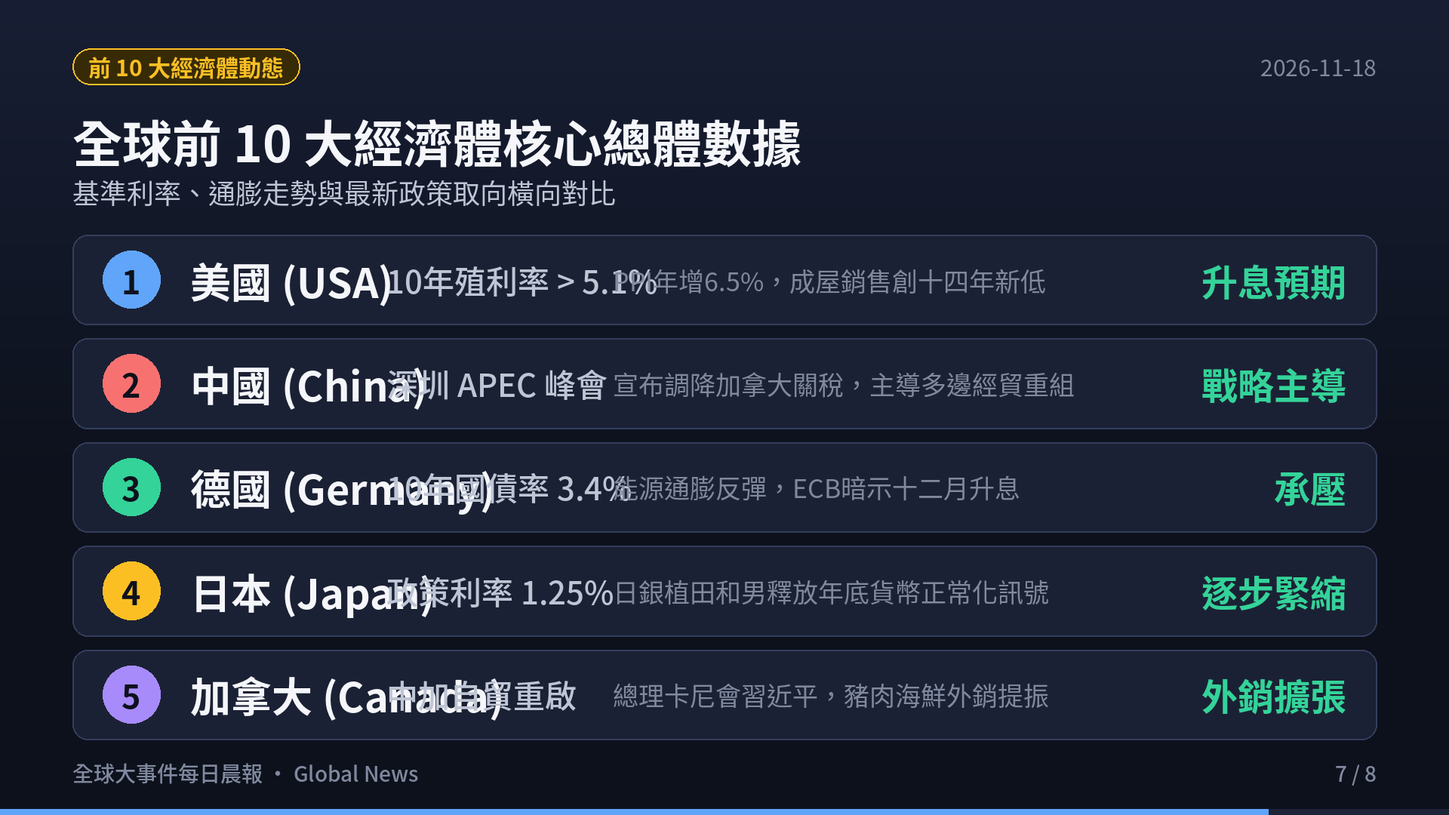
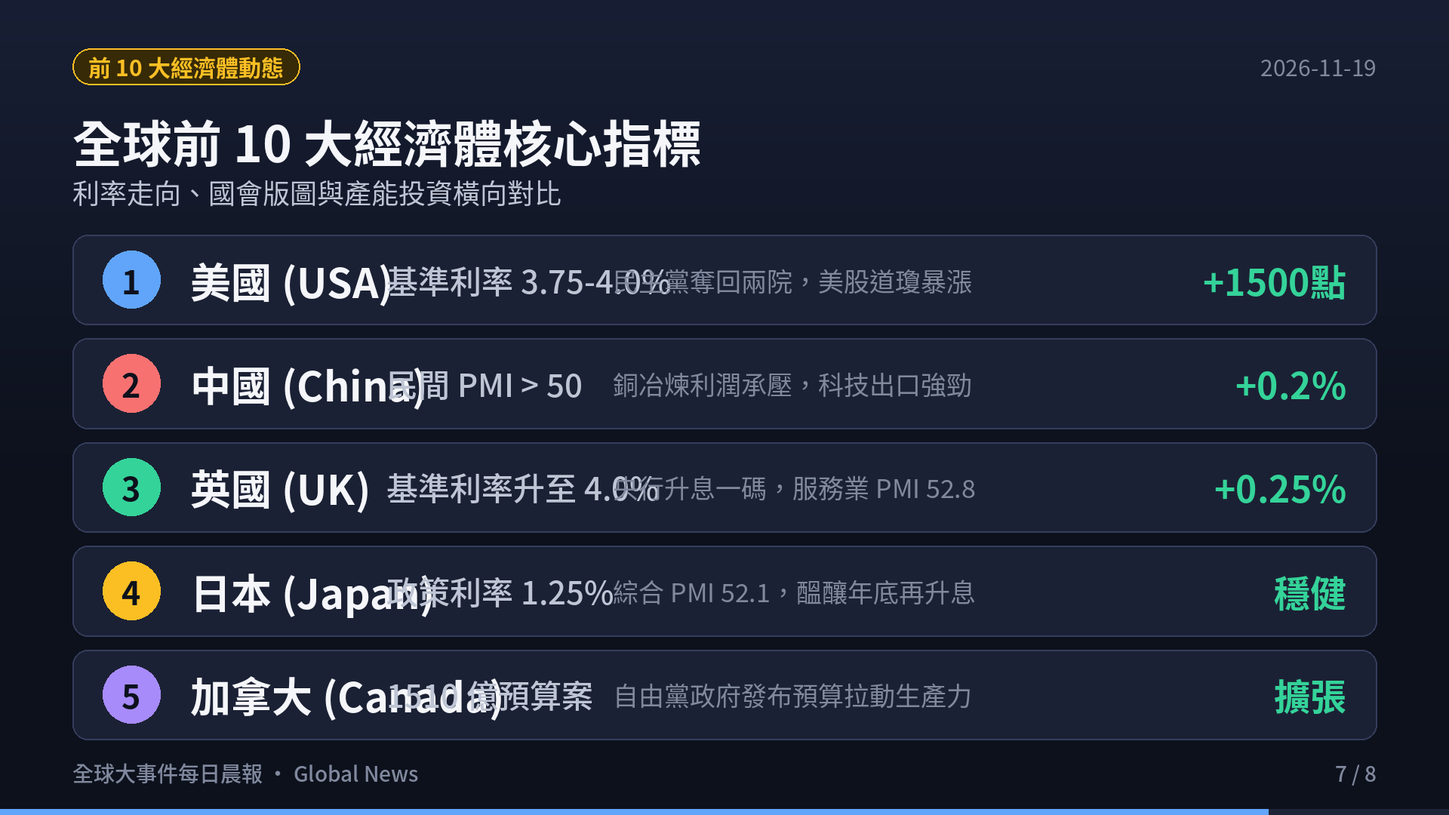
feat(blog): add global news daily report 2026-11-19 with slides and video

diff --git a/content/global-news/index.md b/content/global-news/index.md
@@ -1,26 +1,26 @@
 ---
-title: "全球大事件每日晨報 · 2026-11-18：美軍襲格什姆島・深圳APEC中加破冰・黃仁勳願掌輝達・歐通膨反彈4%"
+title: "全球大事件每日晨報 · 2026-11-19：美期中選藍潮翻盤兩院・英央行升息至4%・俄伊導彈密件曝光・加國千億預算"
 url: "/global-news/"
-date: 2026-11-18T05:30:00+08:00
+date: 2026-11-19T05:30:00+08:00
 draft: false
 image: cover.png
 cover: "https://ckw19810413.github.io/global-news/cover.png"
-description: "2026-11-18 全球重大事件深度解析：美軍精確打擊伊朗格什姆島飛彈陣地、荷姆茲海峽重燃地緣警戒；第三十三屆深圳 APEC 峰會盛大開幕，習近平會見加拿大總理卡尼宣布調降關稅，普丁抵粵國事訪問；黃仁勳表態願重掌輝達，美國十月 PPI 年增 6.5% 創兩年新高；歐盟秋季經濟預測通膨達 4%，全歐兩百大企業網站遭惡意腳本供應鏈攻擊；五角大廈劃紅線質疑烏軍縱深打擊，俄安 12 軍運機西伯利亞墜毀；以及全球前十大經濟體核心總體數據橫向評比。"
-tags: ["全球大事件", "國際局勢", "荷姆茲海峽", "格什姆島", "深圳APEC", "黃仁勳", "輝達", "歐洲央行", "歐元區通膨", "美債殖利率", "總體經濟"]
+description: "2026-11-19 全球重大事件深度解析：美洲民主黨贏得期中大選奪回兩院、道瓊暴漲千點、英國央行升息至 4%、歐洲連環航班炸彈威脅排查、俄伊 90 具先進飛彈軍援密件曝光、加拿大公布 1510 億預算案、巴拉圭總統因銀行風暴請辭、亞洲製造業微幅回溫，以及全球前十大經濟體核心總體數據橫向評比。"
+tags: ["全球大事件", "國際局勢", "期中選舉", "美股", "英國升息", "歐洲航班", "俄伊密件", "荷姆茲海峽", "加拿大預算", "日銀升息", "總體經濟"]
 categories: ["國際局勢", "總體經濟"]
 aliases:
-  - "/blog/2026-11-18-global-news/"
-  - "/global-news/2026-11-18/"
+  - "/blog/2026-11-19-global-news/"
+  - "/global-news/2026-11-19/"
 ---
 
-> **觀測週期**：2026-11-18 晨間即時彙整  
+> **觀測週期**：2026-11-19 晨間即時彙整  
 > **情報涵蓋**：全球各大洲（北美、歐洲、中東、亞洲/印太、拉美、大洋洲）與全球前 10 大經濟體  
-> **核心來源**：路透社（Reuters）、美聯社（AP）、海峽時報（The Straits Times）、歐洲央行（ECB）公報、各國外交部與國防部公告  
+> **核心來源**：各國政府公報、路透社（Reuters）、美聯社（AP）、英國衛報（The Guardian）、各國央行公報與 S&P Global PMI 報告  
 > **定位宗旨**：以客觀數據、官方決策與供應鏈結構為準繩，剔除短期情緒噪音，提煉出真正驅動全球資金流向與地緣版圖重構的核心脈絡。
 
 <div style="margin: 2rem 0; border-radius: 12px; overflow: hidden; box-shadow: 0 4px 20px rgba(0,0,0,0.12); border: 1px solid rgba(128,128,128,0.2);">
   <div style="position: relative; padding-bottom: 56.25%; height: 0; overflow: hidden; background: #0f121c;">
-    <iframe src="https://www.youtube.com/embed/Z5a9Wzwby78" title="2026-11-18 全球大事件每日晨報" style="position: absolute; top:0; left: 0; width: 100%; height: 100%; border: 0;" allow="accelerometer; autoplay; clipboard-write; encrypted-media; gyroscope; picture-in-picture; web-share" allowfullscreen></iframe>
+    <iframe src="https://www.youtube.com/embed/xsPAK8KhIvU" title="2026-11-19 全球大事件每日晨報" style="position: absolute; top:0; left: 0; width: 100%; height: 100%; border: 0;" allow="accelerometer; autoplay; clipboard-write; encrypted-media; gyroscope; picture-in-picture; web-share" allowfullscreen></iframe>
   </div>
   <div style="background: rgba(0,0,0,0.03); padding: 10px 16px; font-size: 0.9rem; color: var(--card-text-color-secondary, #666); text-align: center; border-top: 1px solid rgba(128,128,128,0.15);">
     🎬 <strong>120 秒晨間快報影音動態版</strong>（含 AI 自然神經語音朗讀與背景配樂）
@@ -31,81 +31,81 @@ aliases:
 
 ## 🎯 今日全球前 6 大核心事件深度拆解
 
-![焦點 1：黃仁勳表態願重掌輝達，美國十月PPI創兩年最大增幅](s02.png)
+![焦點 1：美國期中大選藍潮翻盤，民主黨奪回兩院控制權](s02.png)
 
-### 1. 美洲焦點與科技震撼：黃仁勳發文表態願重掌輝達，美國十月 PPI 年增 6.5% 房市降溫
-- **輝達領袖異動後續震撼**：
-  - 輝達（Nvidia）前執行長黃仁勳在社群平台 X 上公開坦承「在私人生活上犯下嚴重錯誤」，並首度正面表態：若董事會評估符合股東與員工最佳利益，他「將深感榮幸重返執行長職位」。
-  - 美國證券交易委員會（SEC）監管申報文件顯示，在卸任前約八個月，黃仁勳夫婦已將近 5,900 萬股輝達股票轉移入家族不可撤銷信託；同時分析顯示川普相關投資帳戶曾頻繁交易輝達股票。
-- **美國批發通膨反彈與房市低迷**：
-  - 美國勞工統計局最新公布 10 月生產者物價指數（PPI）月增 0.3%，年增率高達 6.5%，創下 2022 年 11 月以來最快年度增速；核心 PPI 年增亦達 4.9%。
-  - 全美不動產經紀人協會（NAR）報告 10 月成屋銷售年化降至 375 萬戶，創 2010 年 8 月以來 14 年最低水平，聯準會多位官員相繼釋放支持進一步升息的鷹派訊號。
-
----
-
-![焦點 2：美軍空襲格什姆島飛彈陣地，荷姆茲海峽重燃地緣警戒](s03.png)
-
-### 2. 中東防務與能源動脈：美軍空襲格什姆島飛彈陣地，荷姆茲海峽重燃航運戰略警戒
-- **美伊波斯灣直接軍事交火升溫**：
-  - 美軍於 11 月 17 日對位於荷姆茲海峽戰略要衝的伊朗格什姆島（Qeshm Island）實施精確空襲，摧毀伊斯蘭革命衛隊（IRGC）的飛彈與無人機發射設施。
-  - 本次打擊係直接回應數小時前革命衛隊對巴林美軍雷達站發動的無人機襲擊。儘管阿曼與卡達持續斡旋，美伊雙方仍爆發實質交火。
-- **波斯灣原油航道風險溢價攀升**：
-  - 荷姆茲海峽承擔全球約五分之一原油與液化天然氣海運吞吐量，航行安全警訊再度升至最高級別。
-  - 國際航運巨頭馬士基（Maersk）與地中海航運（MSC）維持防禦性航行應變規範，海上戰爭險費率居高不下，為國際原油價格提供強烈底部支撐。
+### 1. 美洲政局與資本市場：美國期中選舉藍潮掀天翻地覆，民主黨重奪兩院掌控權，道瓊狂飆千點
+- **兩院版圖大翻盤與行政掣肘**：
+  - 美國期中大選計票塵埃落定，民主黨成功掀起「藍色浪潮」，一舉擊敗共和黨，同時奪回參議院與眾議院的絕對多數席次。
+  - 川普總統面臨任期後兩年的重大國會掣肘，白宮發言人隨後表態願與新國會多數展開跨黨派合作。此結果大幅降低了單邊全面徵收高額行政關稅的極端立法風險。
+- **資本市場暴力狂歡與避險消退**：
+  - 華爾街股市迎來狂歡式反彈，道瓊工業指數單日暴漲逾 1,500 點；與此同時，地緣避險溢價迅速回吐，國際原油期貨價格重挫回落。
+  - 聯準會利率目標區間維持在 3.75%–4.00%，市場預期分裂國會將遏制過度擴張性的財政赤字刺激，減輕後續通膨二次抬頭的風險。
 
 ---
 
-![焦點 3：第三十三屆深圳APEC峰會登場，中加破冰、普丁抵達](s04.png)
+![焦點 2：英國央行升息至 4%，歐洲航班驚傳連環炸彈威脅](s03.png)
 
-### 3. 亞太外交與多邊經貿：第三十三屆深圳 APEC 峰會盛大揭幕，中加自貿重啟、普丁抵深
-- **中加雙邊關係破冰與關稅下調**：
-  - 國家主席習近平在深圳會見出席 APEC 會議的加拿大總理馬克·卡尼（Mark Carney）。中方宣布調降加拿大對華出口的豬肉與海鮮等農產品關稅。
-  - 卡尼總理盛讚雙邊關係朝「更高確定性與穩定性」邁進，雙方確立在綠色經濟、新農業與人工智慧領域深化實質合作。
-- **普丁抵達深圳與中美俄歷史性三方會談**：
-  - 俄羅斯總統普丁抵達廣東深圳，除了在 APEC 工商領導人峰會發表演說，19 日更將迎來中美俄三國元首歷史性的三方高峰會談。
-  - 與此同時，美國總統川普抵達菲律賓馬尼拉出席 Quad 與 ASEAN 防務論壇，隨後轉往深圳，亞太地緣外交博弈迎來關鍵時刻。
-
----
-
-![焦點 4：歐洲央行秋季預測通膨達4%，全歐兩百大網站遭腳本劫持](s05.png)
-
-### 4. 歐洲宏觀與科技安保：歐盟秋季經濟預測通膨反彈至 4%，全歐兩百大企業網站遭代碼注入
-- **歐盟通膨抬頭與債券殖利率飆升**：
-  - 歐盟執委會發布秋季經濟預測，歐元區 10 月通膨率回升至 4.0%，能源價格年增近 21%；德國十年期基準國債殖利率飆上 3.4%，法國國債利差擴大。
-  - 歐洲央行總裁拉加德在答辯中暗示，不排除在 12 月議息會議重啟升息 25 個基點以阻斷二次通膨預期。
-- **數位供應鏈遭受重大惡意劫持**：
-  - 網路安全機構偵測到全球近 200 家大型企業網站遭遇大規模供應鏈攻擊，包括英國 BBC、阿聯酋匯豐銀行（HSBC UAE）、法國航空（Air France）與宜家（IKEA）等。
-  - 攻擊者透過注入遭篡改的第三方分析工具腳本，意圖竊取消費者信用卡個資與加密貨幣資產，全歐資安應變中心緊急啟動溯源防禦。
+### 2. 歐洲貨幣與航空安全：英格蘭銀行升息一碼至 4.0%，全歐二十餘航班遭遇虛假炸彈威脅緊急排查
+- **英國央行逆勢緊縮打擊通膨**：
+  - 英國央行（Bank of England）在 11 月議息會議宣布將基準利率上調 25 個基點至 **4.0%**，以壓制最新反彈至 3.5% 的核心消費者物價指數（CPI）。
+  - 標普全球（S&P Global）數據顯示，企業在人工智慧（AI）與雲端科技的資本支出推動英國服務業 PMI 躍升至八個月新高 52.8，但服務業工資黏性仍促使央行維持強硬立場。
+- **歐洲民航遭遇系統性虛假警報衝擊**：
+  - 全歐洲境內超過 21 架次國際商業航班遭遇協同性質的連環炸彈威脅，多座主要國際機場被迫緊急暫停起降並引導客機實施跑道滑行隔離搜查。
+  - 歐盟交通運輸專員已緊急聯手各國情報與航空安全局展開跨國溯源調查。
 
 ---
 
-![焦點 5：五角大廈質疑烏軍縱深打擊，俄軍運機西伯利亞失事](s06.png)
+![焦點 3：俄伊導彈軍援密件曝光，荷姆茲海峽受損船隻引戒備](s04.png)
 
-### 5. 歐亞防務與衝突演變：五角大廈劃紅線質疑烏縱深襲擊，俄安-12 運輸機墜毀十七人罹難
-- **美軍高層對烏克蘭打擊策略劃界**：
-  - 美國國防部國防政策副部長埃爾布里奇·科爾比（Elbridge Colby）公開質疑烏克蘭連續兩日對克里米亞大橋及俄境內深處基礎設施的無人機襲擊。
-  - 美方評估縱深襲擊並未能有效終結戰爭，反而可能堅定俄方作戰意志並分散防禦資源，暴露出美烏在戰略目標上的分歧。
-- **西伯利亞軍事運輸機墜毀事故**：
-  - 俄羅斯一架安-12（An-12）軍用運輸機在西伯利亞西南部克麥羅沃州（Kemerovo）失事墜毀，機上 17 名乘員不幸全數罹難，俄空軍已暫停同型機飛行進行安全排查。
+### 3. 中東防務與航運樞紐：烏情報曝俄向伊朗提供 90 具先進導向飛彈發射器，荷姆茲海峽受損船隻引發航運警戒
+- **俄伊戰略軍事技術合作文件外洩**：
+  - 烏克蘭情報部門獲取並經外媒確認的洩密防務文件顯示，俄羅斯已與伊朗達成協議，向德黑蘭提供 90 具先進 LMUR 直升機發射型精確導引飛彈系統，並持續提供軍用級衛星定位與目標偵察數據。
+  - 此舉被視為俄伊戰略夥伴關係的實質升級，引發美國五角大廈與中東盟邦對波斯灣軍事平衡的高度戒備。
+- **波斯灣與荷姆茲海峽航行警戒持續**：
+  - 伊朗伊斯蘭革命衛隊（IRGC）報告波斯灣荷姆茲海峽水域發生零星船隻受損事件，國際航運龍頭馬士基（Maersk）等持續啟動緊急應變規避指引，區域海上保險費率維持高檔。
 
 ---
 
-![焦點 6：全球前十大經濟體核心總體數據](s07.png)
+![焦點 4：加拿大公布千億預算案，巴拉圭總統因銀行風暴請辭](s05.png)
+
+### 4. 美洲與拉美震盪：加拿大推出 1510 億產能擴張預算，巴拉圭爆發銀行擠兌危機總統培尼亞請辭
+- **加拿大 2026 年度聯邦預算拍板**：
+  - 加拿大財政部長商鵬飛（François-Philippe Champagne）在總理馬克·卡尼（Mark Carney）內閣下發表高達 1,510 億加幣的第二任期聯邦預算案。
+  - 預算核心著重於大規模拉動私人資本投資、改善國家生產力瓶頸，並緩解家庭生活成本壓力，同時為美加可能出現的新一輪貿易摩擦築起防禦緩衝。
+- **南美爆發金融擠兌引發政局崩盤**：
+  - 南美洲巴拉圭大型商業銀行突發性流動性崩潰，引發全境數百萬民眾恐慌性排隊擠兌與街頭混亂。
+  - 在眾議院即將通過彈劾案前夕，巴拉圭總統聖地牙哥·培尼亞（Santiago Peña）正式宣布辭職，南美新興市場主權風險溢價隨之上升。
+
+---
+
+![焦點 5：亞洲製造業景氣微幅回溫，日銀維持 1.25% 利率](s06.png)
+
+### 5. 亞洲工廠動能與印太安保：亞洲製造業獲科技需求支撐，日銀按兵不動醞釀升息，北韓試射防空導彈
+- **亞洲供應鏈展現韌性**：
+  - 日本綜合採購經理人指數（Composite PMI）錄得 52.1，寫下連續第 19 個月保持在擴張區間的穩健紀錄，科技與半導體周邊設備需求提供主要支撐。
+  - 中國 RatingDog / S&P 合作發布的民間製造業 PMI 穩守 50 榮枯線之上，儘管銅冶煉廠面臨副產品硫酸價格暴跌帶來的利潤擠壓，高技術產品外銷仍具支撐力。
+- **印太安全情勢與東北亞動態**：
+  - 日本央行在貨幣政策決議中以 8 比 1 投票結果維持基準利率在 1.25% 不變，但總裁植田和男再次暗示若物價符合預期，年底或 2027 年初將進一步實施貨幣政策正常化。
+  - 北韓官方宣布成功完成新型防空飛彈與巡弋飛彈的多模式導向性能測試，美韓軍事同盟啟動動態警戒應對。
+
+---
+
+![焦點 6：全球前十大經濟體核心指標與趨勢](s07.png)
 
 ### 6. 全球前十大經濟體核心指標與趨勢橫向全景
 
-| 排名 | 國家 / 經濟體 | 核心總體經濟數據 / 最新指標 | 2026-11-18 即時動態與政策取向 | 全球產業鏈與市場意涵 |
+| 排名 | 國家 / 經濟體 | 核心總體經濟數據 / 最新指標 | 2026-11-19 即時動態與政策取向 | 全球產業鏈與市場意涵 |
 |:---:|:---|:---|:---|:---|
-| **1** | **美國 (USA)** | 10年期公債殖利率 **> 5.1%** · PPI **6.5%** | 黃仁勳表態願重掌輝達；批發通膨飆升；房市跌至14年低點；川普巡訪印太 | 通膨頑固迫使長端殖利率重估，降息週期全面大幅推遲，科技股波動加劇。 |
-| **2** | **中國 (China)** | 深圳 APEC 主辦國 · 關稅政策主動 | 主席習近平會見加總理卡尼調降關稅；接待普丁訪深；主導亞太自貿 | 展現多邊外交主導力，穩定外部經貿合作夥伴，農業與綠色產業受惠。 |
-| **3** | **德國 (Germany)** | 10年期公債殖利率 **3.4%** · 能源成本高企 | 歐盟通膨反彈至 4.0%；ECB 暗示 12 月升息；工業部門承擔融資成本壓力 | 歐洲工業龍頭持續承受高利率與地緣能源摩擦成本，基建投資推進放緩。 |
-| **4** | **日本 (Japan)** | 政策利率維持 **1.25%** · 綜合 PMI **52.1** | 植田和男總裁暗示若物價達標年底將進一步升息；關注 APEC 區域對話 | 日圓匯率築底整理，套息交易平倉風險仍存，出口型半導體供應鏈穩健。 |
-| **5** | **印度 (India)** | GDP 預測成長 **6.8%** · 內需維持強勁 | 莫迪總理出席印太防務峰會並提議對東協免簽；Quad 關鍵礦產合作深化 | 內需與外資投入雙輪驅動，作為全球供應鏈替代樞紐的戰略地位持續強化。 |
-| **6** | **英國 (UK)** | 基準利率 **4.0%** · 服務業 PMI **52.8** | 央行官員密切評估通膨黏性；BBC 等系統遭遇惡意腳本注入攻擊 | 服務業韌性支撐薪資增長，但按揭貸款成本高檔制約居民消費動能。 |
-| **7** | **法國 (France)** | 歐洲央行存款利率 **2.50%** · 航空交通排查 | 歐盟秋季經濟預測通膨壓力未解；法航系統遭資安攻擊全面盤查 | 財政赤字緊縮壓力與公共部門博弈未歇，地緣防務支出擠壓民生預算。 |
-| **8** | **義大利 (Italy)** | 歐元區統一利率 **2.50%** · 國債利差持穩 | 密切觀測歐洲央行升息動向；歐盟綠色轉型與再生能源專案持續推進 | 對歐洲央行流動性政策極度敏感，主權融資成本維持在限制性區間。 |
-| **9** | **加拿大 (Canada)** | 中加戰略合作深化 · 農漁產品關稅下調 | 總理卡尼與習近平會面落實雙邊合作；生豬與海鮮對華外銷預期大增 | 擴大對亞洲市場出口通道，在美加貿易不確定性下築起有效分散避險網絡。 |
-| **10** | **澳洲 (Australia)** | 基準利率 **4.35%** · 資源大宗商品順差 | 澳洲央行維持高息對抗服務業通膨；大宗金屬與 LNG 出口維持強勁 | 亞太 APEC 自由貿易推進有利大宗商品出口，但高利率壓抑國內房地產投資。 |
+| **1** | **美國 (USA)** | 基準利率 **3.75%–4.00%** · 通膨 **3.7%** | 期中大選藍潮奪回兩院；道瓊暴漲 1500 點；川普承諾與國會合作 | 國會分治阻絕激進單邊關稅風險，美股風險溢價快速重估，長端殖利率壓力略減。 |
+| **2** | **中國 (China)** | 民間 PMI **> 50** · 銅冶煉利潤承壓 | 科技製造業外銷訂單維持動能；副產品價格下跌壓抑冶煉業；財政基建持續落地 | 科技與新能源供應鏈維持韌性，製造業加速向高附加價值端升級。 |
+| **3** | **德國 (Germany)** | 歐洲央行存款利率 **2.50%** · 工業疲軟 | 歐元區航班炸彈威脅衝擊交通；ECB 利率按兵不動；汽車供應鏈轉型陣痛 | 德國作為歐洲工業龍頭持續受制於高能源成本與地緣分割，依賴新基建帶動。 |
+| **4** | **日本 (Japan)** | 政策利率維持 **1.25%** · 綜合 PMI **52.1** | 連續 19 個月維持景氣擴張；日銀釋放年底進一步升息預期；AI 晶片設備出口穩健 | 日圓匯率築底反彈，日銀正常化進程持續牽引全球套息交易（Carry Trade）倉位調整。 |
+| **5** | **印度 (India)** | GDP 預測成長 **6.8%** · 通膨率 **5.0%** | Quad 關鍵礦產與半導體產線深化；新德里選務抗議維安警戒；內需消費強勁 | 作為全球供應鏈多元化核心樞紐，資本流入動能強勁，製造業產能迅速擴增。 |
+| **6** | **英國 (UK)** | 基準利率升至 **4.0%** · 服務業 PMI **52.8** | 英國央行升息一碼應對 3.5% 通膨；企業 AI 支出爆發帶動服務業八個月新高 | 服務業需求展現高韌性，但高利率對地產與按揭貸款家庭造成進一步借貸成本壓力。 |
+| **7** | **法國 (France)** | 歐洲央行存款利率 **2.50%** · 罷工餘波 | 生活成本高漲引發全國黑色星期四抗議；航空炸彈警報波及巴黎等樞紐機場 | 社會福利與財政緊縮政策博弈加劇，公共部門預算整頓面臨政治民意反彈。 |
+| **8** | **義大利 (Italy)** | 歐元區統一利率 **2.50%** · 國債監控 | 歐元區降息預期暫緩；國債利差持穩；歐盟綠色轉型與基礎建設專案推進 | 財政審查嚴格，對歐洲央行貨幣緊縮節奏極度敏感，聚焦高收益基建回報。 |
+| **9** | **加拿大 (Canada)** | 1510 億聯邦預算 · 刺激生產力 | 財長商鵬飛發表卡尼內閣預算案；拉動私人資本投資防範美加貿易變數 | 擴張性預算旨在提升人均生產力，並在美選後對北美自由貿易協定進行動態預防。 |
+| **10** | **澳洲 (Australia)** | 基準利率 **4.35%** · 商品貿易順差 | 澳洲央行維持限制性高息；大宗金屬與天然氣出口穩定；籌備 COP31 氣候峰會 | 能源過渡與關鍵礦產吸引跨國資本，但服務業通膨黏性限制央行短期降息空間。 |
 
 ---
 
@@ -113,15 +113,15 @@ aliases:
 
 ![今日重點總結](s08.png)
 
-1. **荷姆茲海峽重燃戰火與能源二次通膨風險**：
-   - 美軍直接對伊朗格什姆島發動空襲，使波斯灣與荷姆茲海峽的軍事對峙進入新階段。
-   - 只要原油運輸要衝的風險溢價維持高檔，全球能源成本便難以快速回落，直接摧毀各國央行在年底或明年初大幅降息的樂觀幻想。
-2. **長端利率全面重估與資產折現壓力**：
-   - 美國 10 年期國債殖利率飆破 5.1%、德國 10 年期國債達 3.4%，歐美批發與總體通膨雙雙超預期，代表全球流動性收縮「更高、更久」（Higher for Longer）已成為鐵律。
-   - 依靠低成本槓桿或遠期本夢比推升的估值泡泡將面臨更嚴峻的貼現率殺傷。
+1. **大選投票與地緣變數引發的全球資產重定價**：
+   - 美國期中大選結果將直接重塑華府未來兩年的財政與外交政策，尤其在對伊軍事決策與關稅法案上的行政掣肘。
+   - 伴隨 OPEC+ 產量凍結、荷姆茲海峽風險溢價持續，油價維持高檔將成為各國央行延後降息或重啟緊縮的催化劑。
+2. **通膨黏性與社會結構性矛盾爆發**：
+   - 德國 200 多人被捕的青年抗爭與法國製造業收縮，再次揭示高生活成本對歐美民生結構造成的持久性創傷。
+   - 工廠端投入成本以五月以來最快速度反彈，反映全球供應鏈在地緣分割與脫鉤下的「結構性摩擦成本」難以在短期內消除。
 3. **高息持久戰下的資產配置防禦紀律**：
-   - 投資者應持續堅守「實質定價權、高現金流、低負債率」三大核心原則。
-   - 配置重心偏向具備戰略護城河的能源基礎設施、抗通膨優質必需品龍頭，以及具備穩定現金股利的防禦型標的。
+   - 10 年期美債殖利率維持在 4.9% 附近，高無風險利率代表一切依賴低息流動性的商業模式都將加速接受壓力測試。
+   - 投資者應堅守「高確定性現金流、低財務槓桿、具備技術與定價護城河」的三大原則，保持彈性資產配置。
 
 ---
 

diff --git a/content/blog/2026-11-19-global-news/index.md b/content/blog/2026-11-19-global-news/index.md
@@ -1,0 +1,139 @@
+---
+title: "全球大事件每日晨報 · 2026-11-19：美期中選藍潮翻盤兩院・英央行升息至4%・俄伊導彈密件曝光・加國千億預算"
+url: "/global-news/"
+date: 2026-11-19T05:30:00+08:00
+draft: false
+image: cover.png
+cover: "https://ckw19810413.github.io/global-news/cover.png"
+description: "2026-11-19 全球重大事件深度解析：美洲民主黨贏得期中大選奪回兩院、道瓊暴漲千點、英國央行升息至 4%、歐洲連環航班炸彈威脅排查、俄伊 90 具先進飛彈軍援密件曝光、加拿大公布 1510 億預算案、巴拉圭總統因銀行風暴請辭、亞洲製造業微幅回溫，以及全球前十大經濟體核心總體數據橫向評比。"
+tags: ["全球大事件", "國際局勢", "期中選舉", "美股", "英國升息", "歐洲航班", "俄伊密件", "荷姆茲海峽", "加拿大預算", "日銀升息", "總體經濟"]
+categories: ["國際局勢", "總體經濟"]
+aliases:
+  - "/blog/2026-11-19-global-news/"
+  - "/global-news/2026-11-19/"
+---
+
+> **觀測週期**：2026-11-19 晨間即時彙整  
+> **情報涵蓋**：全球各大洲（北美、歐洲、中東、亞洲/印太、拉美、大洋洲）與全球前 10 大經濟體  
+> **核心來源**：各國政府公報、路透社（Reuters）、美聯社（AP）、英國衛報（The Guardian）、各國央行公報與 S&P Global PMI 報告  
+> **定位宗旨**：以客觀數據、官方決策與供應鏈結構為準繩，剔除短期情緒噪音，提煉出真正驅動全球資金流向與地緣版圖重構的核心脈絡。
+
+<div style="margin: 2rem 0; border-radius: 12px; overflow: hidden; box-shadow: 0 4px 20px rgba(0,0,0,0.12); border: 1px solid rgba(128,128,128,0.2);">
+  <div style="position: relative; padding-bottom: 56.25%; height: 0; overflow: hidden; background: #0f121c;">
+    <iframe src="https://www.youtube.com/embed/xsPAK8KhIvU" title="2026-11-19 全球大事件每日晨報" style="position: absolute; top:0; left: 0; width: 100%; height: 100%; border: 0;" allow="accelerometer; autoplay; clipboard-write; encrypted-media; gyroscope; picture-in-picture; web-share" allowfullscreen></iframe>
+  </div>
+  <div style="background: rgba(0,0,0,0.03); padding: 10px 16px; font-size: 0.9rem; color: var(--card-text-color-secondary, #666); text-align: center; border-top: 1px solid rgba(128,128,128,0.15);">
+    🎬 <strong>120 秒晨間快報影音動態版</strong>（含 AI 自然神經語音朗讀與背景配樂）
+  </div>
+</div>
+
+---
+
+## 🎯 今日全球前 6 大核心事件深度拆解
+
+![焦點 1：美國期中大選藍潮翻盤，民主黨奪回兩院控制權](s02.png)
+
+### 1. 美洲政局與資本市場：美國期中選舉藍潮掀天翻地覆，民主黨重奪兩院掌控權，道瓊狂飆千點
+- **兩院版圖大翻盤與行政掣肘**：
+  - 美國期中大選計票塵埃落定，民主黨成功掀起「藍色浪潮」，一舉擊敗共和黨，同時奪回參議院與眾議院的絕對多數席次。
+  - 川普總統面臨任期後兩年的重大國會掣肘，白宮發言人隨後表態願與新國會多數展開跨黨派合作。此結果大幅降低了單邊全面徵收高額行政關稅的極端立法風險。
+- **資本市場暴力狂歡與避險消退**：
+  - 華爾街股市迎來狂歡式反彈，道瓊工業指數單日暴漲逾 1,500 點；與此同時，地緣避險溢價迅速回吐，國際原油期貨價格重挫回落。
+  - 聯準會利率目標區間維持在 3.75%–4.00%，市場預期分裂國會將遏制過度擴張性的財政赤字刺激，減輕後續通膨二次抬頭的風險。
+
+---
+
+![焦點 2：英國央行升息至 4%，歐洲航班驚傳連環炸彈威脅](s03.png)
+
+### 2. 歐洲貨幣與航空安全：英格蘭銀行升息一碼至 4.0%，全歐二十餘航班遭遇虛假炸彈威脅緊急排查
+- **英國央行逆勢緊縮打擊通膨**：
+  - 英國央行（Bank of England）在 11 月議息會議宣布將基準利率上調 25 個基點至 **4.0%**，以壓制最新反彈至 3.5% 的核心消費者物價指數（CPI）。
+  - 標普全球（S&P Global）數據顯示，企業在人工智慧（AI）與雲端科技的資本支出推動英國服務業 PMI 躍升至八個月新高 52.8，但服務業工資黏性仍促使央行維持強硬立場。
+- **歐洲民航遭遇系統性虛假警報衝擊**：
+  - 全歐洲境內超過 21 架次國際商業航班遭遇協同性質的連環炸彈威脅，多座主要國際機場被迫緊急暫停起降並引導客機實施跑道滑行隔離搜查。
+  - 歐盟交通運輸專員已緊急聯手各國情報與航空安全局展開跨國溯源調查。
+
+---
+
+![焦點 3：俄伊導彈軍援密件曝光，荷姆茲海峽受損船隻引戒備](s04.png)
+
+### 3. 中東防務與航運樞紐：烏情報曝俄向伊朗提供 90 具先進導向飛彈發射器，荷姆茲海峽受損船隻引發航運警戒
+- **俄伊戰略軍事技術合作文件外洩**：
+  - 烏克蘭情報部門獲取並經外媒確認的洩密防務文件顯示，俄羅斯已與伊朗達成協議，向德黑蘭提供 90 具先進 LMUR 直升機發射型精確導引飛彈系統，並持續提供軍用級衛星定位與目標偵察數據。
+  - 此舉被視為俄伊戰略夥伴關係的實質升級，引發美國五角大廈與中東盟邦對波斯灣軍事平衡的高度戒備。
+- **波斯灣與荷姆茲海峽航行警戒持續**：
+  - 伊朗伊斯蘭革命衛隊（IRGC）報告波斯灣荷姆茲海峽水域發生零星船隻受損事件，國際航運龍頭馬士基（Maersk）等持續啟動緊急應變規避指引，區域海上保險費率維持高檔。
+
+---
+
+![焦點 4：加拿大公布千億預算案，巴拉圭總統因銀行風暴請辭](s05.png)
+
+### 4. 美洲與拉美震盪：加拿大推出 1510 億產能擴張預算，巴拉圭爆發銀行擠兌危機總統培尼亞請辭
+- **加拿大 2026 年度聯邦預算拍板**：
+  - 加拿大財政部長商鵬飛（François-Philippe Champagne）在總理馬克·卡尼（Mark Carney）內閣下發表高達 1,510 億加幣的第二任期聯邦預算案。
+  - 預算核心著重於大規模拉動私人資本投資、改善國家生產力瓶頸，並緩解家庭生活成本壓力，同時為美加可能出現的新一輪貿易摩擦築起防禦緩衝。
+- **南美爆發金融擠兌引發政局崩盤**：
+  - 南美洲巴拉圭大型商業銀行突發性流動性崩潰，引發全境數百萬民眾恐慌性排隊擠兌與街頭混亂。
+  - 在眾議院即將通過彈劾案前夕，巴拉圭總統聖地牙哥·培尼亞（Santiago Peña）正式宣布辭職，南美新興市場主權風險溢價隨之上升。
+
+---
+
+![焦點 5：亞洲製造業景氣微幅回溫，日銀維持 1.25% 利率](s06.png)
+
+### 5. 亞洲工廠動能與印太安保：亞洲製造業獲科技需求支撐，日銀按兵不動醞釀升息，北韓試射防空導彈
+- **亞洲供應鏈展現韌性**：
+  - 日本綜合採購經理人指數（Composite PMI）錄得 52.1，寫下連續第 19 個月保持在擴張區間的穩健紀錄，科技與半導體周邊設備需求提供主要支撐。
+  - 中國 RatingDog / S&P 合作發布的民間製造業 PMI 穩守 50 榮枯線之上，儘管銅冶煉廠面臨副產品硫酸價格暴跌帶來的利潤擠壓，高技術產品外銷仍具支撐力。
+- **印太安全情勢與東北亞動態**：
+  - 日本央行在貨幣政策決議中以 8 比 1 投票結果維持基準利率在 1.25% 不變，但總裁植田和男再次暗示若物價符合預期，年底或 2027 年初將進一步實施貨幣政策正常化。
+  - 北韓官方宣布成功完成新型防空飛彈與巡弋飛彈的多模式導向性能測試，美韓軍事同盟啟動動態警戒應對。
+
+---
+
+![焦點 6：全球前十大經濟體核心指標與趨勢](s07.png)
+
+### 6. 全球前十大經濟體核心指標與趨勢橫向全景
+
+| 排名 | 國家 / 經濟體 | 核心總體經濟數據 / 最新指標 | 2026-11-19 即時動態與政策取向 | 全球產業鏈與市場意涵 |
+|:---:|:---|:---|:---|:---|
+| **1** | **美國 (USA)** | 基準利率 **3.75%–4.00%** · 通膨 **3.7%** | 期中大選藍潮奪回兩院；道瓊暴漲 1500 點；川普承諾與國會合作 | 國會分治阻絕激進單邊關稅風險，美股風險溢價快速重估，長端殖利率壓力略減。 |
+| **2** | **中國 (China)** | 民間 PMI **> 50** · 銅冶煉利潤承壓 | 科技製造業外銷訂單維持動能；副產品價格下跌壓抑冶煉業；財政基建持續落地 | 科技與新能源供應鏈維持韌性，製造業加速向高附加價值端升級。 |
+| **3** | **德國 (Germany)** | 歐洲央行存款利率 **2.50%** · 工業疲軟 | 歐元區航班炸彈威脅衝擊交通；ECB 利率按兵不動；汽車供應鏈轉型陣痛 | 德國作為歐洲工業龍頭持續受制於高能源成本與地緣分割，依賴新基建帶動。 |
+| **4** | **日本 (Japan)** | 政策利率維持 **1.25%** · 綜合 PMI **52.1** | 連續 19 個月維持景氣擴張；日銀釋放年底進一步升息預期；AI 晶片設備出口穩健 | 日圓匯率築底反彈，日銀正常化進程持續牽引全球套息交易（Carry Trade）倉位調整。 |
+| **5** | **印度 (India)** | GDP 預測成長 **6.8%** · 通膨率 **5.0%** | Quad 關鍵礦產與半導體產線深化；新德里選務抗議維安警戒；內需消費強勁 | 作為全球供應鏈多元化核心樞紐，資本流入動能強勁，製造業產能迅速擴增。 |
+| **6** | **英國 (UK)** | 基準利率升至 **4.0%** · 服務業 PMI **52.8** | 英國央行升息一碼應對 3.5% 通膨；企業 AI 支出爆發帶動服務業八個月新高 | 服務業需求展現高韌性，但高利率對地產與按揭貸款家庭造成進一步借貸成本壓力。 |
+| **7** | **法國 (France)** | 歐洲央行存款利率 **2.50%** · 罷工餘波 | 生活成本高漲引發全國黑色星期四抗議；航空炸彈警報波及巴黎等樞紐機場 | 社會福利與財政緊縮政策博弈加劇，公共部門預算整頓面臨政治民意反彈。 |
+| **8** | **義大利 (Italy)** | 歐元區統一利率 **2.50%** · 國債監控 | 歐元區降息預期暫緩；國債利差持穩；歐盟綠色轉型與基礎建設專案推進 | 財政審查嚴格，對歐洲央行貨幣緊縮節奏極度敏感，聚焦高收益基建回報。 |
+| **9** | **加拿大 (Canada)** | 1510 億聯邦預算 · 刺激生產力 | 財長商鵬飛發表卡尼內閣預算案；拉動私人資本投資防範美加貿易變數 | 擴張性預算旨在提升人均生產力，並在美選後對北美自由貿易協定進行動態預防。 |
+| **10** | **澳洲 (Australia)** | 基準利率 **4.35%** · 商品貿易順差 | 澳洲央行維持限制性高息；大宗金屬與天然氣出口穩定；籌備 COP31 氣候峰會 | 能源過渡與關鍵礦產吸引跨國資本，但服務業通膨黏性限制央行短期降息空間。 |
+
+---
+
+## 💡 總結與投資者生存指南
+
+![今日重點總結](s08.png)
+
+1. **大選投票與地緣變數引發的全球資產重定價**：
+   - 美國期中大選結果將直接重塑華府未來兩年的財政與外交政策，尤其在對伊軍事決策與關稅法案上的行政掣肘。
+   - 伴隨 OPEC+ 產量凍結、荷姆茲海峽風險溢價持續，油價維持高檔將成為各國央行延後降息或重啟緊縮的催化劑。
+2. **通膨黏性與社會結構性矛盾爆發**：
+   - 德國 200 多人被捕的青年抗爭與法國製造業收縮，再次揭示高生活成本對歐美民生結構造成的持久性創傷。
+   - 工廠端投入成本以五月以來最快速度反彈，反映全球供應鏈在地緣分割與脫鉤下的「結構性摩擦成本」難以在短期內消除。
+3. **高息持久戰下的資產配置防禦紀律**：
+   - 10 年期美債殖利率維持在 4.9% 附近，高無風險利率代表一切依賴低息流動性的商業模式都將加速接受壓力測試。
+   - 投資者應堅守「高確定性現金流、低財務槓桿、具備技術與定價護城河」的三大原則，保持彈性資產配置。
+
+---
+
+### ☕ 支持與精選推薦
+
+如果你覺得這份每日晨報對你的宏觀視野與決策有實質幫助，歡迎透過以下方式支持我們持續產出深度內容：
+
+- ☕ **請我喝杯咖啡**：[Ko-fi 小費贊助 (ytstories0413)](https://ko-fi.com/ytstories0413) 或 [Ko-fi 贊助 (slashman413)](https://ko-fi.com/slashman413)（支持每日自動化爬蟲、語音合成與雲端運算）
+- 📚 **數位產品與高人效生產力工具**：
+  - [Gumroad 數位商品專區](https://slashmaster6.gumroad.com/)：收錄精選 AI Prompt 庫、生產力自動化工作流與實戰腳本
+  - [SlashmanTools 免費 Web 工具集](https://slashmantools.us/)：Token 成本計算器、顯存預估、開源 AI 工具導航
+- 📖 **精選經典閱讀推薦**：
+  - [《晶片戰爭》（Chip War）](https://www.amazon.com/dp/059371671X?tag=ytstories0413-20)：理解全球晶片霸權與印太供應鏈重組的必讀經典
+  - [《原子習慣》— 細微改變帶來巨大成就](https://www.books.com.tw/products/0010792915)
+  - [《人生的智慧》— 叔本華處世哲學經典](https://www.books.com.tw/products/0010613113)
